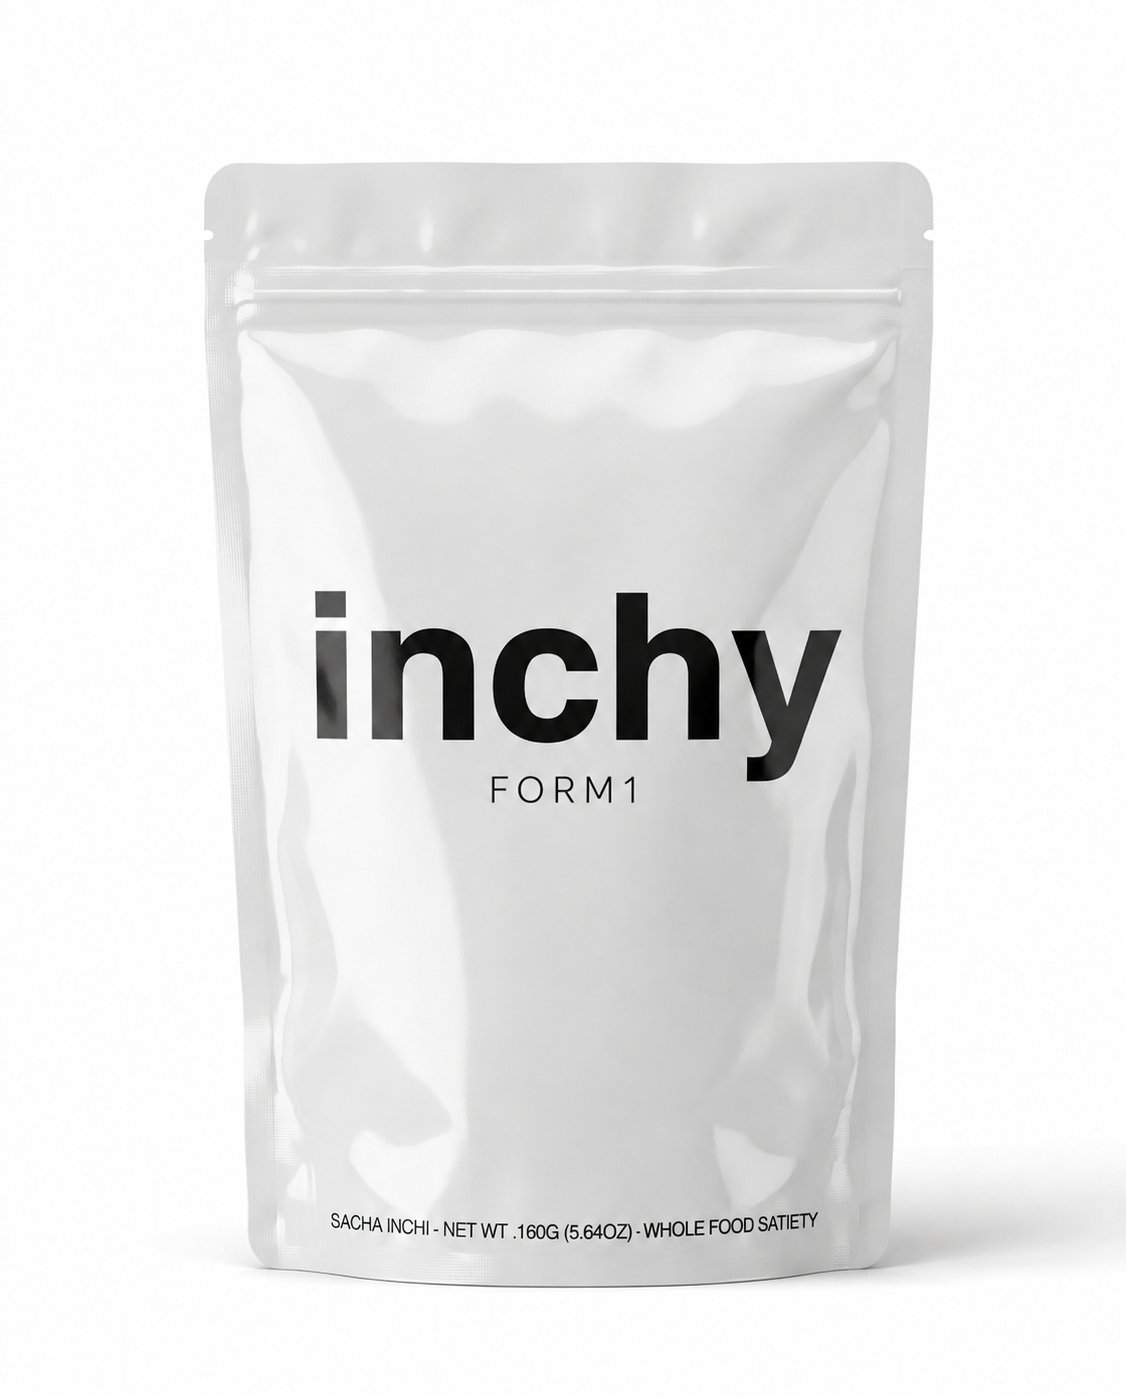
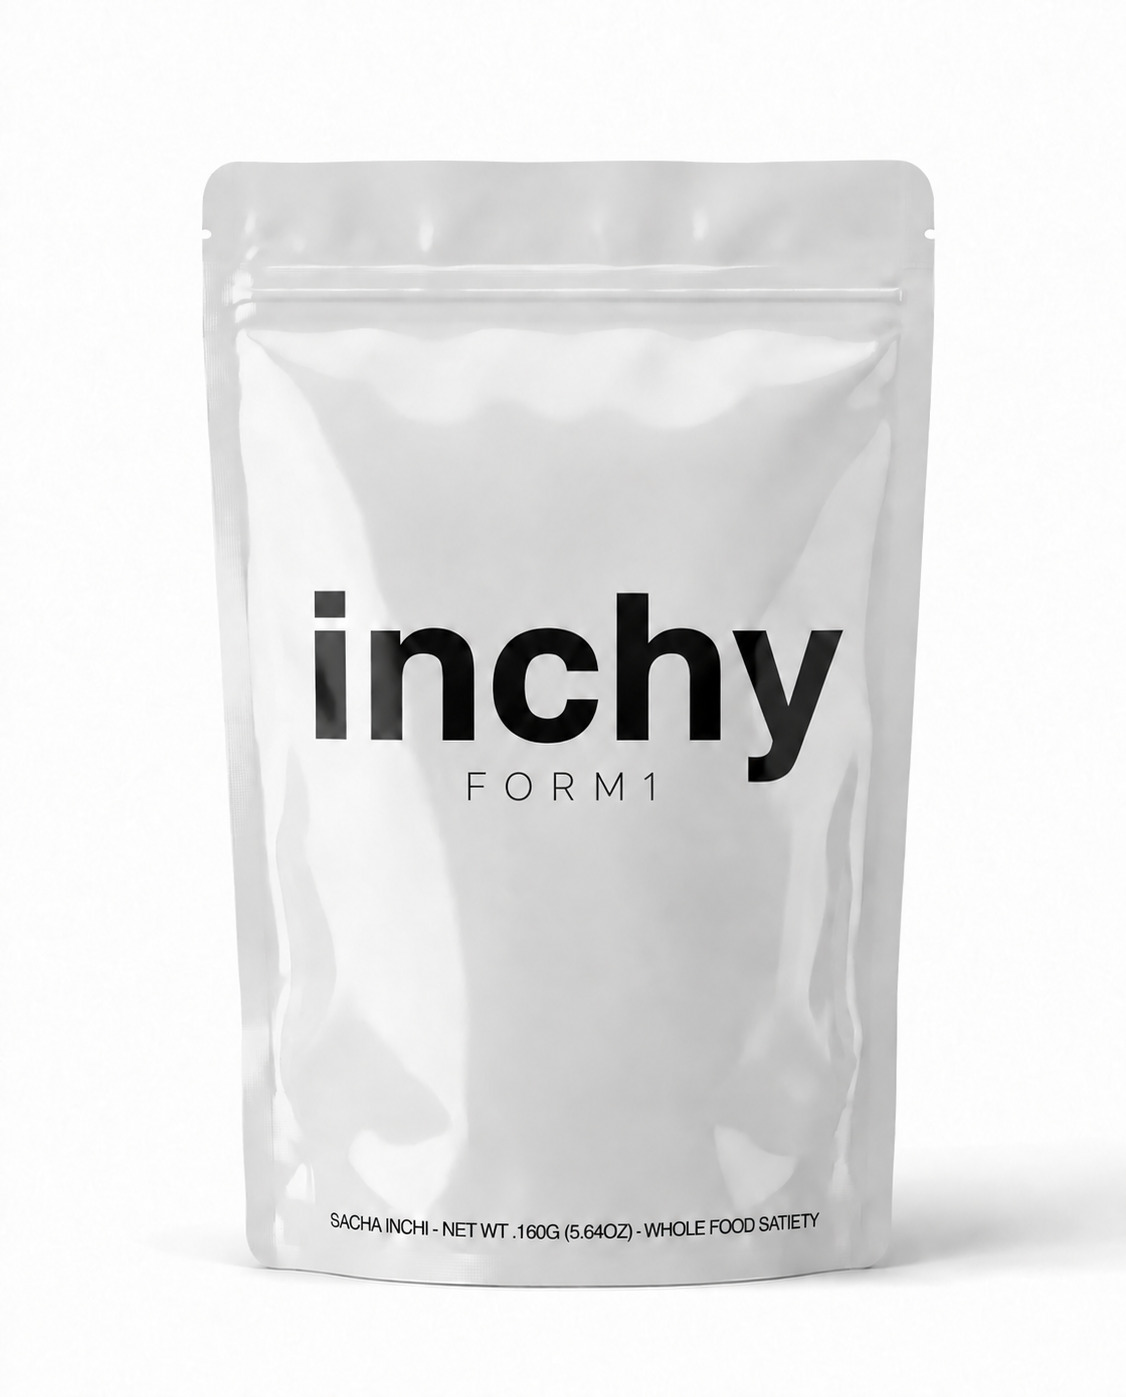
Refine FORM1 packaging and product typography

diff --git a/assets/inchy-clarity.css b/assets/inchy-clarity.css
@@ -264,7 +264,15 @@
 }
 
 /* FORM1 product identity and immersive biodiversity chapter. */
-.inchy-form-name { display: block; margin: 14px 0 24px; font: 300 20px/1.4 Arial, sans-serif; letter-spacing: .28em; }
+.inchy-form-name {
+  display: block;
+  margin: 22px 0 28px;
+  font-family: 'Arial Narrow', 'Helvetica Neue', Arial, sans-serif;
+  font-size: 24px;
+  font-weight: 300;
+  line-height: 1;
+  letter-spacing: .3em;
+}
 .inchy-form-identity { max-width: 360px; text-align: center; }
 .inchy-form-identity .inchy-logo { display: block; width: 100%; }
 .inchy-form-identity img, .inchy-form-identity svg { width: 100%; height: auto; }
@@ -280,9 +288,15 @@
   .inchy-origin-feature__story { grid-template-columns: 1fr; gap: 28px; }
   .inchy-origin-feature__story > div { border-left: 0; padding-left: 0; }
   .inchy-origin-feature__story p { font-size: 18px; }
-  .inchy-form-name { font-size: 17px; }
+  .inchy-form-name { margin-top: 18px; font-size: 19px; letter-spacing: .28em; }
 }
 
 .inchy-product-panel__content .inchy-form-identity { width: 100%; max-width: 460px; }
 
-.inchy-intro__copy > .inchy-form-intro { margin-top: 30px; margin-bottom: 18px; }
+.inchy-intro__copy > .inchy-form-intro {
+  margin-top: 36px;
+  margin-bottom: 20px;
+  font-family: 'Arial Narrow', 'Helvetica Neue', Arial, sans-serif;
+  font-weight: 300;
+  letter-spacing: .16em;
+}
